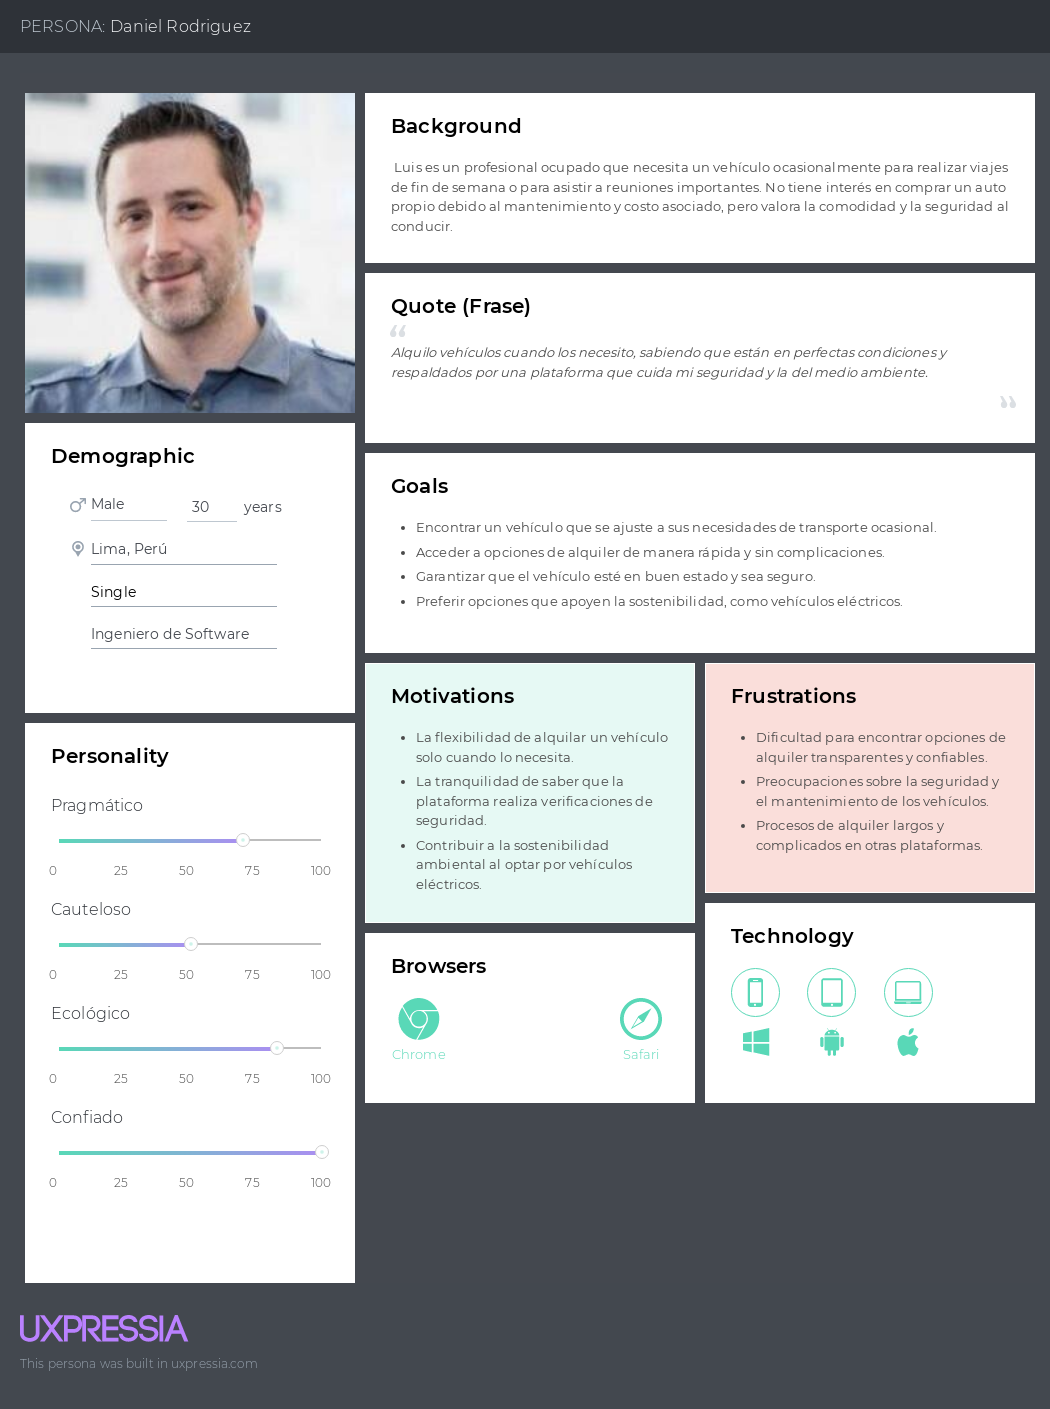
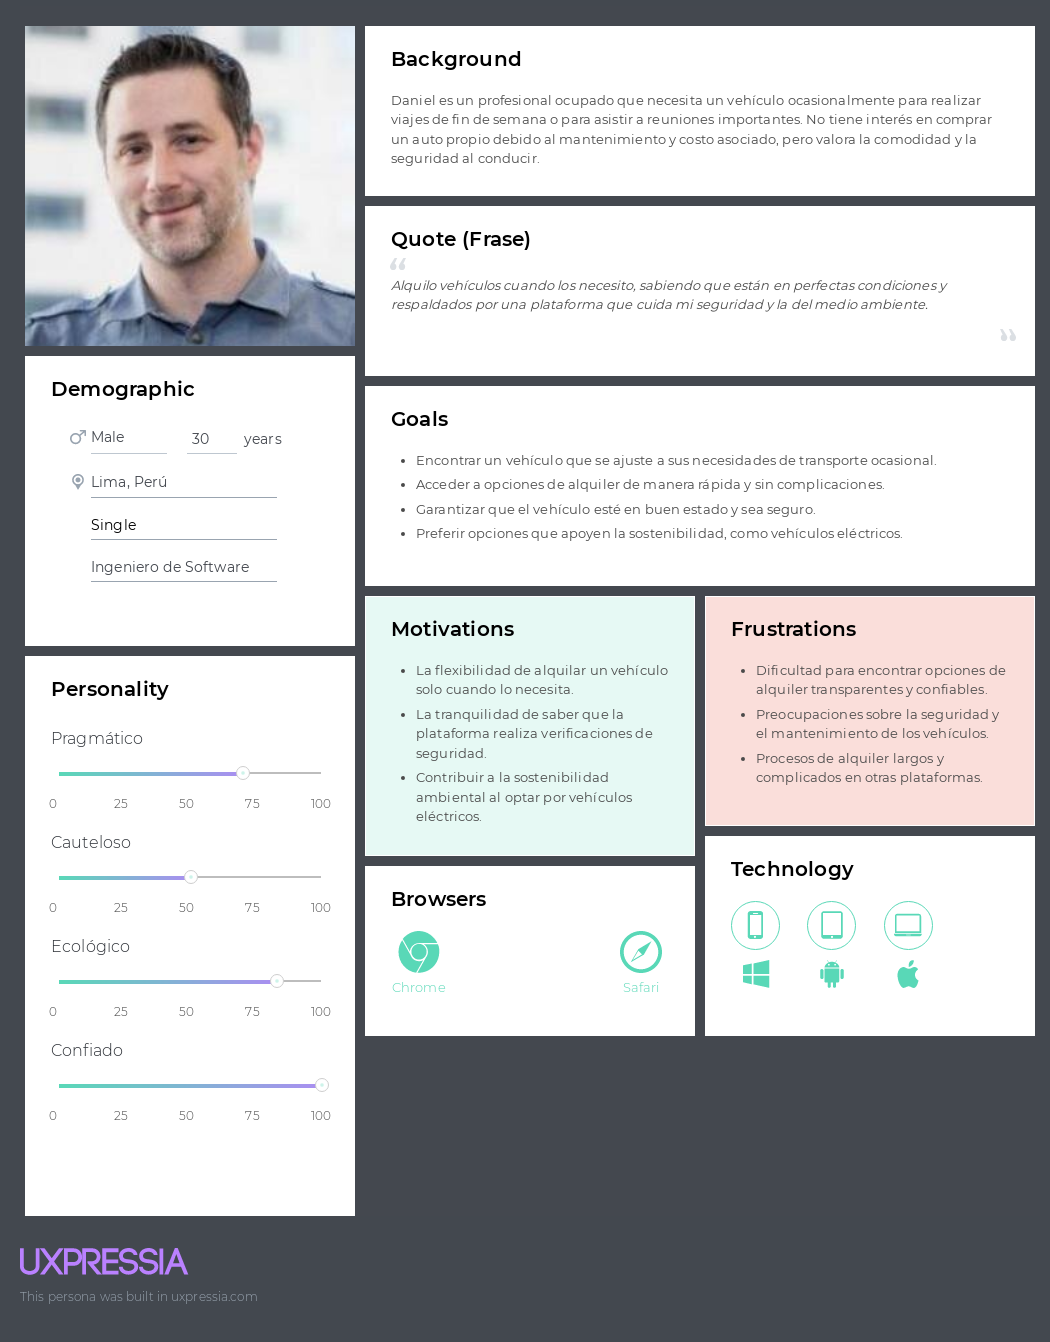
docs: added information Chapter 2

diff --git a/Chapter-2.md b/Chapter-2.md
@@ -185,7 +185,47 @@ Después de nuestra investigación exhaustiva, hemos identificado dos empresas q
      * **¿Qué opinas del soporte que ofrecemos para asegurar una experiencia de alquiler segura y confiable?** <br>
 
 #### 2.2.2. Registro de entrevistas
+Segmento Objetivo 1: Arrendatarios
+
+*Entrevistado 1*
+
+<table border="1" style="text-align: left;">
+	<tbody>
+		<tr>
+			<td colspan="1" rowspan="6"><img src="Assets/Chapter-2/Entrevista_1.jpeg" alt="" width="575" height="250"></td>
+            <td colspan="1" rowspan="1"><strong>Nombre del entrevistado
+            <br>
+            </strong> Lucia
+            <br> Fernandez
+            </td>
+		</tr>
+        <tr>
+            <td>
+            <strong>Edad<br></strong> 20 años
+            <br>
+            </td>
+        </tr>
+        <tr>
+            <td>
+            <strong>Nombre del entrevistador</strong>
+            <br>Samuel Ignacio
+            <br>Valera Garcés
+            </td>
+        </tr>
+        <tr>
+            <td>
+             <strong><a href="https://upcedupe-my.sharepoint.com/:v:/g/personal/u202111952_upc_edu_pe/EUVXUgrZ9y9MsBMIHeOQKPcB_XURnMBKetjKihTAeKO-ag?e=KhLX3s&nav=eyJyZWZlcnJhbEluZm8iOnsicmVmZXJyYWxBcHAiOiJTdHJlYW1XZWJBcHAiLCJyZWZlcnJhbFZpZXciOiJTaGFyZURpYWxvZy1MaW5rIiwicmVmZXJyYWxBcHBQbGF0Zm9ybSI6IldlYiIsInJlZmVycmFsTW9kZSI6InZpZXcifX0%3D">URL Entrevista</a></strong>
+            </td>
+        </tr>        
+	</tbody>
+</table>
+
+Resumen: 
+Lucia es una diseñadora que vive en Estados Unidos desde hace dos años que ganó el sorteo de un carro cuando vivía en Perú. Ha tenido dificultades al intentar alquilar su vehículo en plataformas existentes, principalmente debido a la falta de información clara sobre los arrendatarios y problemas en las transacciones. Valora la transparencia y la seguridad en las plataformas de alquiler, especialmente cuando se trata de una comunicación directa y accesible en caso de problemas. Lucia considera importante un proceso de verificación riguroso para arrendadores y arrendatarios, así como la promoción del uso de vehículos eléctricos, lo que considera beneficioso para el medio ambiente.  
+
+
 #### 2.2.3. Análisis de entrevistas
+
 ### 2.3. Needfinding
 #### 2.3.1. User Personas
 * Segmento objetivo 1: Arrendatario <br>
@@ -207,7 +247,7 @@ Después de nuestra investigación exhaustiva, hemos identificado dos empresas q
         <th colspan="2">User Persona</th>
       </tr>
       <tr>
-        <td colspan="2">Luis Martinez <br> (Segmento Objetivo 1: Arrendatario) </td>
+        <td colspan="2">Daniel Rodriguez <br> (Segmento Objetivo 1: Arrendatario) </td>
       </tr>
       <tr>
         <td>Task</td>
@@ -323,9 +363,29 @@ Después de nuestra investigación exhaustiva, hemos identificado dos empresas q
   </table>
 
 #### 2.3.3. User Journey Mapping
+* Segmento objetivo 1: Arrendatario <br>
+  Son aquellas personas que desean alquilar un vehículo por un período específico.
+  <img src="Assets/Chapter-2/User_Journey_Arrendatarios.png">
+  <br>
+* Segmento objetivo 2: Arrendadores <br>
+  Son aquellas personas que poseen un vehículo y lo pone a disposición de un arrendatario a cambio de un pago.
+  <img src="Assets/Chapter-2/User_Journey_Arrendadores.png">
 
 #### 2.3.4. Empathy Mapping
+* Segmento objetivo 1: Arrendatario <br>
+  Son aquellas personas que desean alquilar un vehículo por un período específico.
+  <img src="Assets/Chapter-2/Empathy_Map_Arrendatario.png">
+* Segmento objetivo 2: Arrendadores <br>
+  Son aquellas personas que poseen un vehículo y lo pone a disposición de un arrendatario a cambio de un pago.   
+  <img src="Assets/Chapter-2/Empathy_Map_Arrendador.png"><br>
 
 #### 2.3.5. As-is Scenario Mapping
+* Segmento objetivo 1: Arrendatario <br>
+  Son aquellas personas que desean alquilar un vehículo por un período específico.
+  <img src="Assets/Chapter-2/Scenario_Mapping_Arrendatario.png">
+  <br>
+* Segmento objetivo 2: Arrendadores <br>
+  Son aquellas personas que poseen un vehículo y lo pone a disposición de un arrendatario a cambio de un pago.   
+  <img src="Assets/Chapter-2/Scenario_Mapping_Arrendador.png">
 
 ### 2.4. Ubiquitous Language
